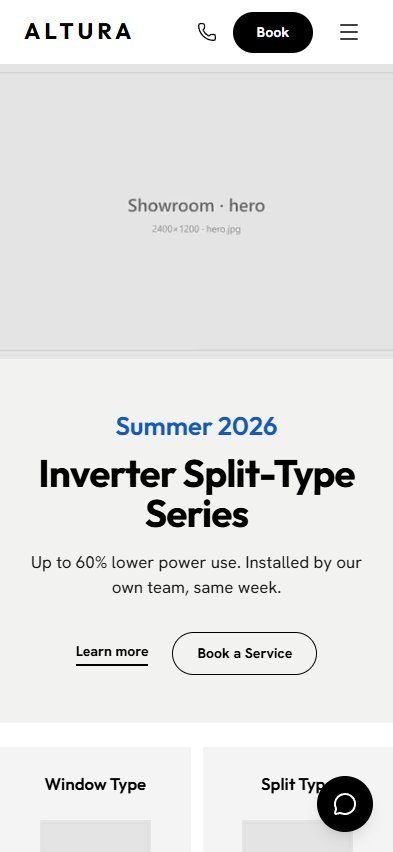
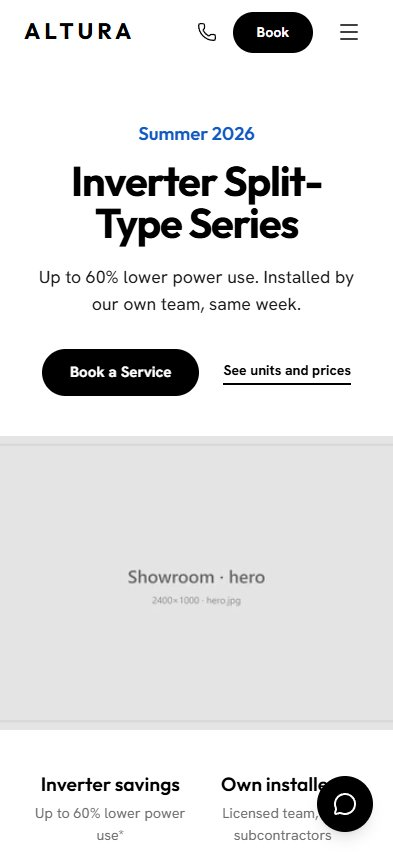
Particle "website" in the intro headline; Showroom revamp
- The hero particles now reform as the word "website" inside a larger
  "Show a client their website before you build it." section; word
  anchors show their real text again once the particles leave
- Showroom: centered launch-style hero over a wide image (no text over
  photos), selling-point strip, "Shop by unit type" heading, room-size
  guide, split banner

diff --git a/templates/air-conditioning/showroom/sections/Body.tsx b/templates/air-conditioning/showroom/sections/Body.tsx
@@ -37,19 +37,68 @@ export function Services({ c }: { c: ShowroomContent }) {
 
 export function Banner({ c, image }: { c: ShowroomContent; image: ImageSlot }) {
   return (
-    <section className="relative overflow-hidden bg-(--c-night) text-white" aria-labelledby="sr-banner">
-      <div className="relative aspect-[4/3] md:aspect-[24/11] md:max-h-[720px] md:w-full">
-        <SlotImage image={image} sizes="100vw" className="absolute inset-0 size-full object-cover" />
+    <section className="px-0 py-6 md:px-6" aria-labelledby="sr-banner">
+      <div className="mx-auto grid max-w-[1392px] overflow-hidden bg-(--c-night) text-white md:grid-cols-2 md:rounded-[28px]">
+        <div className="flex flex-col justify-center px-6 py-14 md:px-16 md:py-20">
+          <h2 id="sr-banner" className={`${D} text-[clamp(2.2rem,4.5vw,3.75rem)] leading-[1.04] font-bold tracking-[-0.02em]`}>
+            {c.banner.title}
+          </h2>
+          <p className="mt-5 max-w-md text-[1.1rem] leading-relaxed text-white/80">{c.banner.body}</p>
+          <div className="mt-9">
+            <a
+              href="#packages"
+              className="inline-flex items-center justify-center rounded-full border border-white px-6 py-2.5 text-[14px] font-bold transition-colors hover:bg-white hover:text-(--c-black)"
+            >
+              {c.banner.cta}
+            </a>
+          </div>
+        </div>
+        <div className="relative aspect-[14/11] md:aspect-auto md:min-h-[480px]">
+          <SlotImage image={image} sizes="(min-width: 768px) 50vw, 100vw" className="absolute inset-0 size-full object-cover" />
+        </div>
       </div>
-      <div className="px-6 py-12 md:absolute md:inset-y-0 md:left-0 md:flex md:w-1/2 md:flex-col md:justify-center md:px-[max(1.5rem,calc((100vw-1392px)/2))] md:py-0">
-        <h2 id="sr-banner" className={`${D} text-[2.4rem] leading-[1.05] font-bold tracking-[-0.02em] md:text-[3.6rem]`}>
-          {c.banner.title}
-        </h2>
-        <p className="mt-4 max-w-md text-[1.1rem] text-white/85">{c.banner.body}</p>
-        <div className="mt-8">
-          <a href="#packages" className="inline-flex items-center justify-center rounded-full border border-white px-6 py-2.5 text-[14px] font-bold transition-colors hover:bg-white hover:text-(--c-black)">
-            {c.banner.cta}
+    </section>
+  );
+}
+
+export function Sizing({ c }: { c: ShowroomContent }) {
+  return (
+    <section className="py-20" aria-labelledby="sr-sizing">
+      <div className={`${wrap} grid gap-10 lg:grid-cols-[1fr_2fr]`}>
+        <div>
+          <h2 id="sr-sizing" className={h2}>
+            Find the right size
+          </h2>
+          <p className="mt-4 max-w-sm text-[1rem] leading-relaxed text-(--c-ink)">
+            Too small and it runs all day; too big and it wastes power. Start here, and we&rsquo;ll confirm on a free
+            site visit.
+          </p>
+          <a href="#book" className={`${textLink} mt-8 inline-block`}>
+            Book a free site visit
           </a>
+        </div>
+        <div className="overflow-x-auto">
+          <table className="w-full min-w-[34rem] text-left">
+            <caption className="sr-only">Recommended aircon capacity by room size</caption>
+            <thead>
+              <tr className="border-b border-(--c-black) text-[0.85rem] text-(--c-gray)">
+                <th scope="col" className="py-3 pr-4 font-normal">Room</th>
+                <th scope="col" className="py-3 pr-4 font-normal">Floor area</th>
+                <th scope="col" className="py-3 pr-4 font-normal">Capacity</th>
+                <th scope="col" className="py-3 font-normal">We&rsquo;d pick</th>
+              </tr>
+            </thead>
+            <tbody>
+              {c.sizing.map((r) => (
+                <tr key={r.room} className="border-b border-(--c-line)">
+                  <th scope="row" className="py-5 pr-4 font-bold">{r.room}</th>
+                  <td className="py-5 pr-4 text-(--c-ink) tabular-nums">{r.area}</td>
+                  <td className={`${D} py-5 pr-4 text-[1.1rem] font-semibold tabular-nums`}>{r.hp}</td>
+                  <td className="py-5 text-(--c-ink)">{r.pick}</td>
+                </tr>
+              ))}
+            </tbody>
+          </table>
         </div>
       </div>
     </section>

diff --git a/templates/air-conditioning/showroom/sections/Top.tsx b/templates/air-conditioning/showroom/sections/Top.tsx
@@ -82,39 +82,59 @@ export function Header({ c, tel }: { c: ShowroomContent; tel: string }) {
 
 export function Hero({ c, image }: { c: ShowroomContent; image: ImageSlot }) {
   return (
-    <section id="top" className="relative bg-[#f2f2f0]">
-      <div className="relative aspect-[4/3] md:aspect-[2/1] md:max-h-[760px] md:w-full">
+    <section id="top" className="bg-white">
+      <div className="px-6 pt-14 pb-10 text-center md:pt-20 md:pb-14">
+        <p className={`${D} text-[1.15rem] font-semibold text-(--c-blue) md:text-[1.35rem]`}>{c.campaign.kicker}</p>
+        <h1
+          className={`${D} mx-auto mt-3 max-w-5xl text-[clamp(2.6rem,6.5vw,5.5rem)] leading-[1.02] font-bold tracking-[-0.03em] text-balance text-(--c-black)`}
+        >
+          {c.campaign.title}
+        </h1>
+        <p className="mx-auto mt-5 max-w-lg text-[1.1rem] text-(--c-ink)">{c.campaign.body}</p>
+        <div className="mt-8 flex flex-wrap items-center justify-center gap-x-6 gap-y-4">
+          <a href="#book" className={`${pillSolid} px-7 py-3 text-[15px]`}>
+            {c.hero.primaryCta}
+          </a>
+          <a href="#units" className={textLink}>
+            See units and prices
+          </a>
+        </div>
+      </div>
+      <div className="relative aspect-[4/3] overflow-hidden bg-(--c-tile) sm:aspect-[12/5] md:mx-6 md:rounded-[28px] 2xl:mx-auto 2xl:max-w-[1392px]">
         <SlotImage
           image={image}
-          sizes="100vw"
+          sizes="(min-width: 1440px) 1440px, 100vw"
           className="absolute inset-0 size-full object-cover"
           loading="eager"
           fetchPriority="high"
         />
       </div>
-      <div className="px-6 py-12 text-center md:absolute md:inset-y-0 md:right-0 md:flex md:w-1/2 md:flex-col md:justify-center md:py-0">
-        <p className={`${D} text-[1.6rem] font-semibold text-(--c-blue) md:text-[2.2rem]`}>{c.campaign.kicker}</p>
-        <h1 className={`${D} mt-2 text-[2.4rem] leading-[1.05] font-bold tracking-[-0.02em] text-(--c-black) md:text-[3.6rem]`}>
-          {c.campaign.title}
-        </h1>
-        <p className="mx-auto mt-4 max-w-md text-[1.05rem] text-(--c-ink)">{c.campaign.body}</p>
-        <div className="mt-8 flex items-center justify-center gap-6">
-          <a href="#units" className={textLink}>
-            Learn more
-          </a>
-          <a href="#book" className={pill}>
-            {c.hero.primaryCta}
-          </a>
-        </div>
-      </div>
+    </section>
+  );
+}
+
+export function Highlights({ c }: { c: ShowroomContent }) {
+  return (
+    <section aria-label="Why buy here" className="border-b border-(--c-line) py-10 md:py-12">
+      <ul className="mx-auto grid max-w-[1440px] grid-cols-2 gap-y-8 px-6 md:grid-cols-4">
+        {c.highlights.map((h, i) => (
+          <li key={h.title} className={`px-2 text-center md:px-6 ${i > 0 ? "md:border-l md:border-(--c-line)" : ""}`}>
+            <p className={`${D} text-[1.2rem] font-semibold md:text-[1.35rem]`}>{h.title}</p>
+            <p className="mt-1 text-[0.9rem] text-(--c-gray)">{h.body}</p>
+          </li>
+        ))}
+      </ul>
     </section>
   );
 }
 
 export function UnitTiles({ c, images }: { c: ShowroomContent; images: Record<string, ImageSlot> }) {
   return (
-    <section id="shop" aria-label="Shop by unit type" className="scroll-mt-24 py-6">
-      <ul className="grid grid-cols-2 gap-3 md:grid-cols-4 md:gap-6">
+    <section id="shop" aria-labelledby="sr-shop" className="scroll-mt-24 pt-20 pb-6">
+      <h2 id="sr-shop" className={`${D} px-6 text-[2rem] font-bold tracking-[-0.02em] md:px-[max(1.5rem,calc((100vw-1392px)/2))] md:text-[2.5rem]`}>
+        Shop by unit type
+      </h2>
+      <ul className="mt-10 grid grid-cols-2 gap-3 md:grid-cols-4 md:gap-6">
         {c.unitTypes.map((u) => (
           <li key={u.type}>
             <a href="#units" className="group flex aspect-square flex-col items-center bg-(--c-tile) px-4 pt-6 md:pt-8">

diff --git a/app/(gallery)/page.tsx b/app/(gallery)/page.tsx
@@ -55,28 +55,34 @@ export default function HomePage() {
       </section>
 
       <section aria-labelledby="library-title" className="border-t border-line">
-        <div className="mx-auto grid max-w-6xl items-center gap-10 px-4 pt-20 pb-6 sm:px-6 md:grid-cols-[1fr_auto]">
-          <div className="max-w-xl">
-            <h2 id="library-title" className="text-[clamp(1.9rem,4vw,2.75rem)] leading-[1.08] font-semibold tracking-[-0.035em] text-balance">
-              Show a client their website before you build it.
-            </h2>
-            <p className="mt-5 text-[17px] leading-relaxed text-muted">
+        <div className="mx-auto max-w-6xl px-4 py-28 sm:px-6 md:py-40">
+          <h2
+            id="library-title"
+            className="max-w-5xl text-[clamp(2.75rem,7.4vw,6.5rem)] leading-[0.98] font-semibold tracking-[-0.045em] text-balance"
+          >
+            Show a client their{" "}
+            <span data-morph="word" className="transition-colors duration-500">
+              website
+            </span>{" "}
+            before you build it.
+          </h2>
+          <div className="mt-14 grid gap-10 md:grid-cols-[1fr_auto] md:items-end">
+            <p className="max-w-xl text-[19px] leading-relaxed text-muted">
               Complete website templates for local businesses, sorted by industry. Open one, click around as if it were
               live, and when a client says &ldquo;that one&rdquo;, we build their site on it.
             </p>
-            <div className="mt-8 flex flex-wrap items-center gap-x-6 gap-y-4">
+            <div className="flex flex-wrap items-center gap-x-7 gap-y-4">
               <Link
                 href="#templates"
-                className="inline-flex items-center gap-2 rounded-md bg-ink px-5 py-3 text-[15px] font-medium text-paper transition-colors hover:bg-ink-2"
+                className="inline-flex items-center gap-2 rounded-md bg-ink px-6 py-3.5 text-[16px] font-medium text-paper transition-colors hover:bg-ink-2"
               >
                 Browse templates <ArrowRight className="size-4" aria-hidden="true" />
               </Link>
-              <Link href="#process" className="text-[15px] underline decoration-line-strong underline-offset-4 hover:decoration-ink">
+              <Link href="#process" className="text-[16px] underline decoration-line-strong underline-offset-4 hover:decoration-ink">
                 How it works
               </Link>
             </div>
           </div>
-          <div data-morph="browser" aria-hidden="true" className="hidden h-[200px] w-[320px] md:block" />
         </div>
       </section>
 

diff --git a/components/gallery/MorphField.tsx b/components/gallery/MorphField.tsx
@@ -12,7 +12,7 @@ import { createPortal } from "react-dom";
  * to right, with a scatter cloud) and reform as the next shape; the morph is
  * scrubbed by scroll position, so scrolling back reverses it.
  *
- *   data-morph="word"      the element's own text (it is hidden once drawn)
+ *   data-morph="word"      the element's own text (hidden while the particles sit on it)
  *   data-morph="browser" | "globe" | "grid" | "steps"
  *   data-morph-color="#1a1a19"   particle color at this anchor
  *   data-morph-size="2.4"        particle size (CSS px) at this anchor
@@ -254,7 +254,23 @@ export function MorphField() {
     let raf = 0;
     let dpr = 1;
     const pointer = { x: -9999, y: -9999 };
-    const hidden: HTMLElement[] = [];
+    // Word anchors whose real text is currently hidden behind particles.
+    const hidden = new Set<HTMLElement>();
+    /**
+     * The real text stays in the DOM for screen readers and search. It's
+     * hidden only while the particles are sitting on it, and fades back in
+     * as soon as they leave, so a sentence never reads with a gap.
+     */
+    function syncWords(covered: number) {
+      anchors.forEach((a, j) => {
+        if (a.shape !== "word") return;
+        const hide = j === covered;
+        if (hide === hidden.has(a.el)) return;
+        a.el.style.color = hide ? "transparent" : "";
+        if (hide) hidden.add(a.el);
+        else hidden.delete(a.el);
+      });
+    }
 
     function resize() {
       dpr = Math.min(2, window.devicePixelRatio || 1);
@@ -284,14 +300,6 @@ export function MorphField() {
         })
         .filter((a): a is Anchor => !!a && a.points.length > 0);
 
-      // The real text stays in the DOM for screen readers and search; hide
-      // it visually only once the particle version is drawn.
-      for (const a of anchors) {
-        if (a.shape === "word" && !hidden.includes(a.el)) {
-          a.el.style.color = "transparent";
-          hidden.push(a.el);
-        }
-      }
       ready = anchors.length > 0;
     }
 
@@ -322,6 +330,7 @@ export function MorphField() {
 
       const A = anchors[from];
       const B = anchors[to];
+      syncWords(t < 0.5 ? from : to);
       const ra = rects[from];
       const rb = rects[to];
       const col = A.color.map((c, i) => Math.round(c + (B.color[i] - c) * smooth(t)));

diff --git a/templates/air-conditioning/showroom/meta.ts b/templates/air-conditioning/showroom/meta.ts
@@ -36,7 +36,8 @@ const meta = {
   ],
   features: [
     "Utility bar plus sticky header with click-to-call",
-    "Full-bleed campaign hero with pill buttons",
+    "Centered launch-style hero over a wide product image",
+    "Selling-point strip and room-size guide",
     "Grey product-category tiles",
     "Recommended-units shelf with sale prices and scroll progress",
     "Service tiles, packages and a dark promo banner",
@@ -52,17 +53,17 @@ const meta = {
       src: `${dir}/hero.jpg`,
       alt: "A slim white inverter split-type aircon above a sofa in a bright living room",
       width: 2400,
-      height: 1200,
+      height: 1000,
       prompt:
-        "Minimal bright Filipino condo living room, slim matte white wall-mounted inverter split-type air conditioner above a light grey sofa, the unit and sofa on the left half, right half is clean pale wall for headline text, soft morning daylight, premium electronics brand campaign photography, 2:1",
+        "Wide minimal bright Filipino condo living room, slim matte white wall-mounted inverter split-type air conditioner centered above a light grey sofa, clean pale walls, soft morning daylight, premium electronics brand campaign photography, centered composition, 12:5",
     },
     banner: {
       src: `${dir}/banner.jpg`,
       alt: "Technician mounting an outdoor aircon unit at dusk",
-      width: 2400,
+      width: 1400,
       height: 1100,
       prompt:
-        "Dramatic deep navy blue dusk scene, a single modern outdoor aircon condenser unit lit by a soft top spotlight, technician's gloved hands tightening a valve, subject on the right half, left half dark for white headline text, cinematic premium brand campaign photography, 24:11",
+        "Dramatic deep navy blue dusk scene, a single modern outdoor aircon condenser unit lit by a soft top spotlight, technician's gloved hands tightening a valve, cinematic premium brand campaign photography, 14:11",
     },
     window: product("window", "Window-type inverter aircon", "Modern white window-type inverter air conditioner, front three-quarter view"),
     split: product("split", "Split-type inverter aircon indoor unit", "Slim white wall-mounted split-type inverter air conditioner indoor unit, front view"),

diff --git a/templates/air-conditioning/showroom/content.ts b/templates/air-conditioning/showroom/content.ts
@@ -9,6 +9,10 @@ export type ShowroomContent = ACContent & {
   unitTypes: { type: UnitType; name: string }[];
   products: { name: string; type: UnitType; price: number; was?: number; note: string }[];
   disclaimers: string[];
+  /** Short selling points shown in a strip under the hero */
+  highlights: { title: string; body: string }[];
+  /** Room size → horsepower guide */
+  sizing: { room: string; area: string; hp: string; pick: string }[];
 };
 
 /**
@@ -153,6 +157,19 @@ const content: ShowroomContent = {
     headline: "Not sure which unit fits your room?",
     subheadline: "Send us the room size and we'll recommend the right horsepower, free.",
   },
+  highlights: [
+    { title: "Inverter savings", body: "Up to 60% lower power use*" },
+    { title: "Own installers", body: "Licensed team, not subcontractors" },
+    { title: "Same-week install", body: "Across Quezon City and nearby" },
+    { title: "1-year workmanship", body: "On top of the brand warranty" },
+  ],
+  sizing: [
+    { room: "Small bedroom", area: "Up to 12 m²", hp: "0.75 – 1.0 HP", pick: "Window type inverter" },
+    { room: "Master bedroom", area: "13 – 18 m²", hp: "1.0 – 1.5 HP", pick: "Split type inverter" },
+    { room: "Living room", area: "19 – 28 m²", hp: "1.5 – 2.0 HP", pick: "Split type inverter" },
+    { room: "Open-plan / office", area: "29 – 40 m²", hp: "2.5 – 3.0 HP", pick: "Floor mounted" },
+    { room: "Shop / restaurant", area: "40 m² and up", hp: "3.0 TR and up", pick: "Ceiling cassette" },
+  ],
   disclaimers: [
     "*Energy savings compared with a non-inverter unit of the same capacity under typical use. Actual savings vary.",
     "*Sale prices valid while stocks last. Images are for illustration only.",

diff --git a/templates/air-conditioning/showroom/index.tsx b/templates/air-conditioning/showroom/index.tsx
@@ -4,9 +4,9 @@ import { contactLinks } from "../_shared/links";
 import content from "./content";
 import meta from "./meta";
 import { body, display } from "./fonts";
-import { Header, Hero, UnitTiles } from "./sections/Top";
+import { Header, Hero, Highlights, UnitTiles } from "./sections/Top";
 import { Shelf } from "./sections/Shelf";
-import { Banner, BrandsLine, Coverage, Faq, Packages, Reviews, Services, Steps } from "./sections/Body";
+import { Banner, BrandsLine, Coverage, Faq, Packages, Reviews, Services, Sizing, Steps } from "./sections/Body";
 import { Booking } from "./sections/Booking";
 import { FinalCta, Footer } from "./sections/Footer";
 
@@ -23,10 +23,12 @@ export default function Showroom() {
       <Header c={c} tel={links.tel} />
       <main>
         <Hero c={c} image={images.hero} />
+        <Highlights c={c} />
         <UnitTiles c={c} images={images} />
-        <Services c={c} />
-        <Banner c={c} image={images.banner} />
         <Shelf c={c} images={images} />
+        <Sizing c={c} />
+        <Banner c={c} image={images.banner} />
+        <Services c={c} />
         <Packages c={c} />
         <Steps c={c} />
         <BrandsLine c={c} />
